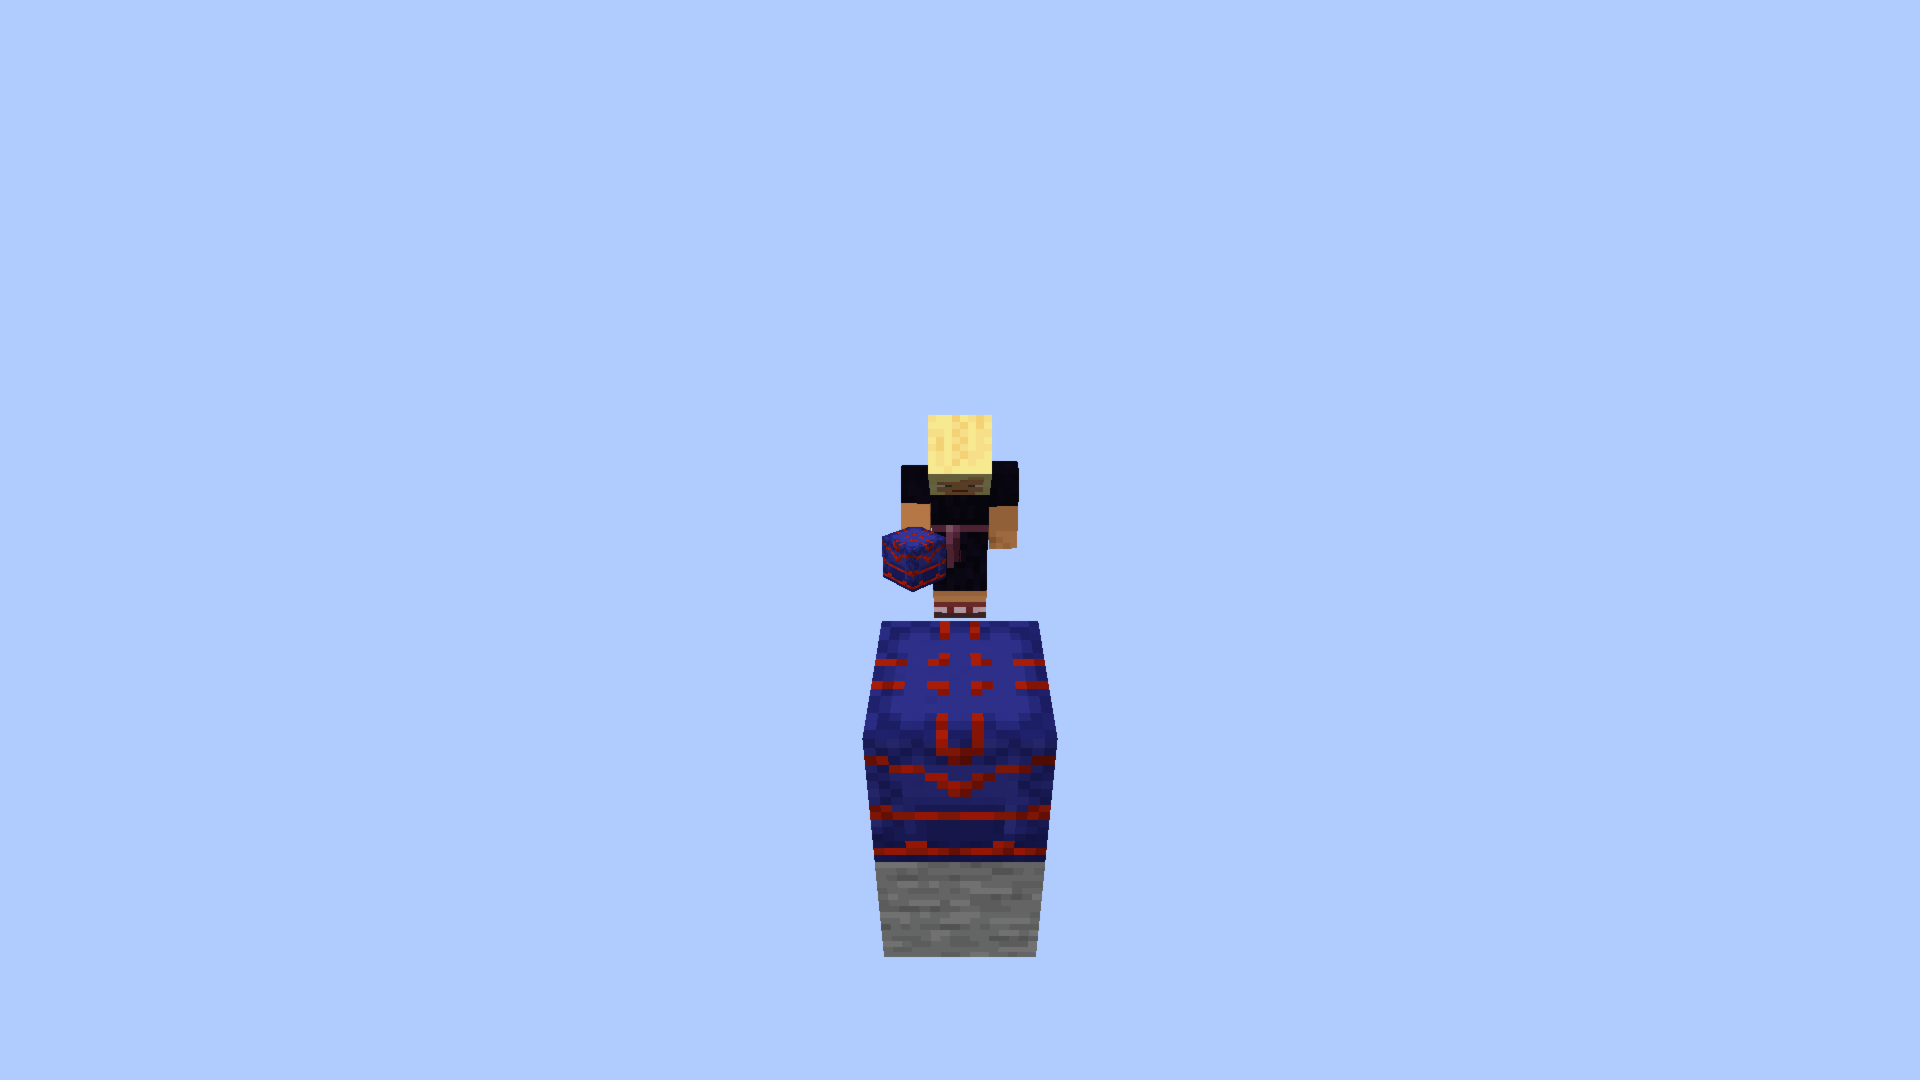
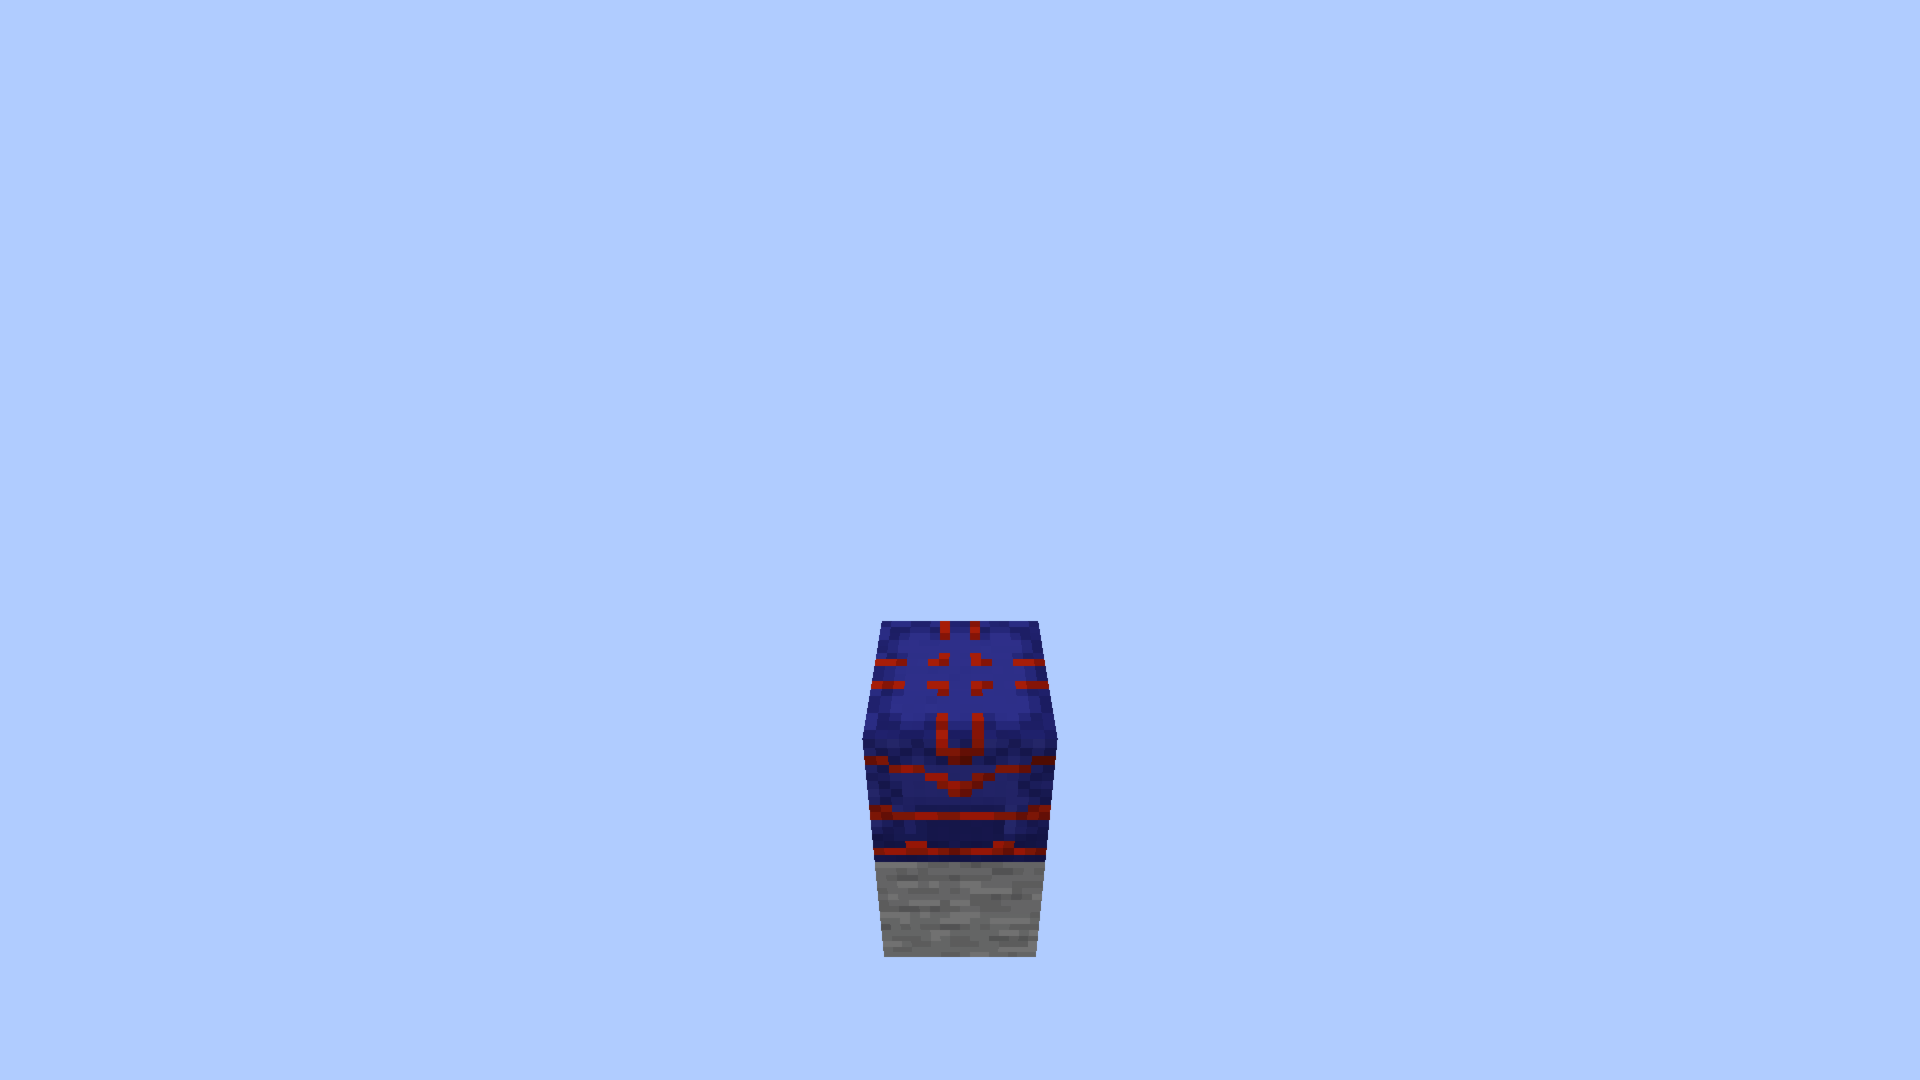
fix(test): teleport bot out of frame and add netty checksums
The two-player placement test was failing screenshot comparison because
TrimBot's idle animation (subtle arm swinging) caused non-deterministic
screenshots. Now teleport the bot to Y=-100 after block placement but
before taking the screenshot.

Also:
- Add dependency verification documentation to CLAUDE.md explaining why
  --write-verification-metadata doesn't work with our snapshot pinning
- Add SHA256 checksums for netty 4.2.1.Final native transport artifacts
  (required by MCProtocolLib)
- Regenerate shulker-trim-two-player-placed.png template without bot

Changed region(s): [[0.4375, 0.3667, 0.5312, 0.5806]]

diff --git a/fabric/src/gametest/java/com/wlritchi/shulkertrims/fabric/test/ExternalServerConnectionTest.java b/fabric/src/gametest/java/com/wlritchi/shulkertrims/fabric/test/ExternalServerConnectionTest.java
@@ -555,6 +555,15 @@ public class ExternalServerConnectionTest implements FabricClientGameTest {
             }
 
             LOGGER.info("Block placement via protocol SUCCEEDED!");
+
+            // Teleport TrimBot out of frame before taking screenshot
+            // The bot's idle animation causes non-deterministic screenshots
+            try {
+                launcher.sendCommand("tp " + bot.getUsername() + " 0 -100 0");
+                LOGGER.info("Teleported bot out of frame for screenshot");
+            } catch (Exception e) {
+                LOGGER.warn("Failed to teleport bot out of frame: {}", e.getMessage());
+            }
             context.waitTicks(20);
 
             // Verify the block was placed (from observer's perspective)

diff --git a/CLAUDE.md b/CLAUDE.md
@@ -16,6 +16,27 @@ Shulker Trims is a Minecraft mod that adds the ability to apply armor trim patte
 ./gradlew :fabric:genSources  # Generate Minecraft sources for IDE support
 ```
 
+## Dependency Verification
+
+This project uses Gradle's dependency verification (`gradle/verification-metadata.xml`) to ensure
+build reproducibility and detect supply chain attacks. All dependencies must have their checksums
+recorded.
+
+**Important**: Gradle's `--write-verification-metadata` flag does NOT work correctly with this
+project due to bugs related to how we pin SNAPSHOT dependencies (MCProtocolLib). The snapshot
+pinning in `build.gradle.kts` uses `resolutionStrategy` with exact version strings, which is the
+only approach compatible with verification—but Gradle's metadata writer creates duplicate entries.
+
+**When adding new dependencies or updating versions**:
+1. Run the build and note which artifacts fail verification
+2. Manually fetch checksums from Maven Central (use the `.sha256` files)
+3. Add entries to `gradle/verification-metadata.xml` following the existing format
+
+Example for fetching a checksum:
+```bash
+curl -sL "https://repo1.maven.org/maven2/io/netty/netty-codec/4.2.1.Final/netty-codec-4.2.1.Final.jar.sha256"
+```
+
 Output JARs:
 - `fabric/build/libs/shulker-trims-mc1.21.10-fabric-1.0.0.jar` — Fabric-only mod
 - `bukkit/build/libs/shulker-trims-mc1.21.10-bukkit-1.0.0.jar` — Bukkit-only plugin
